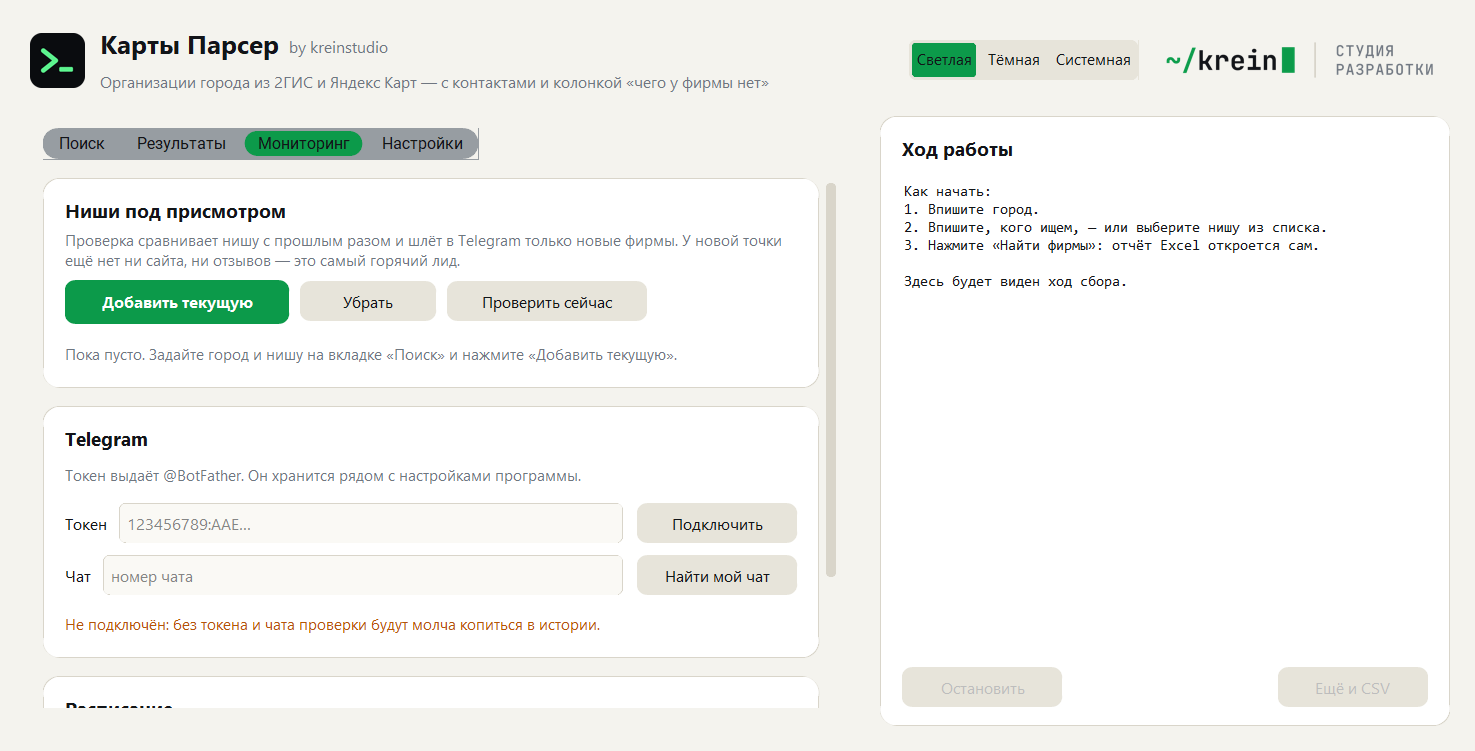
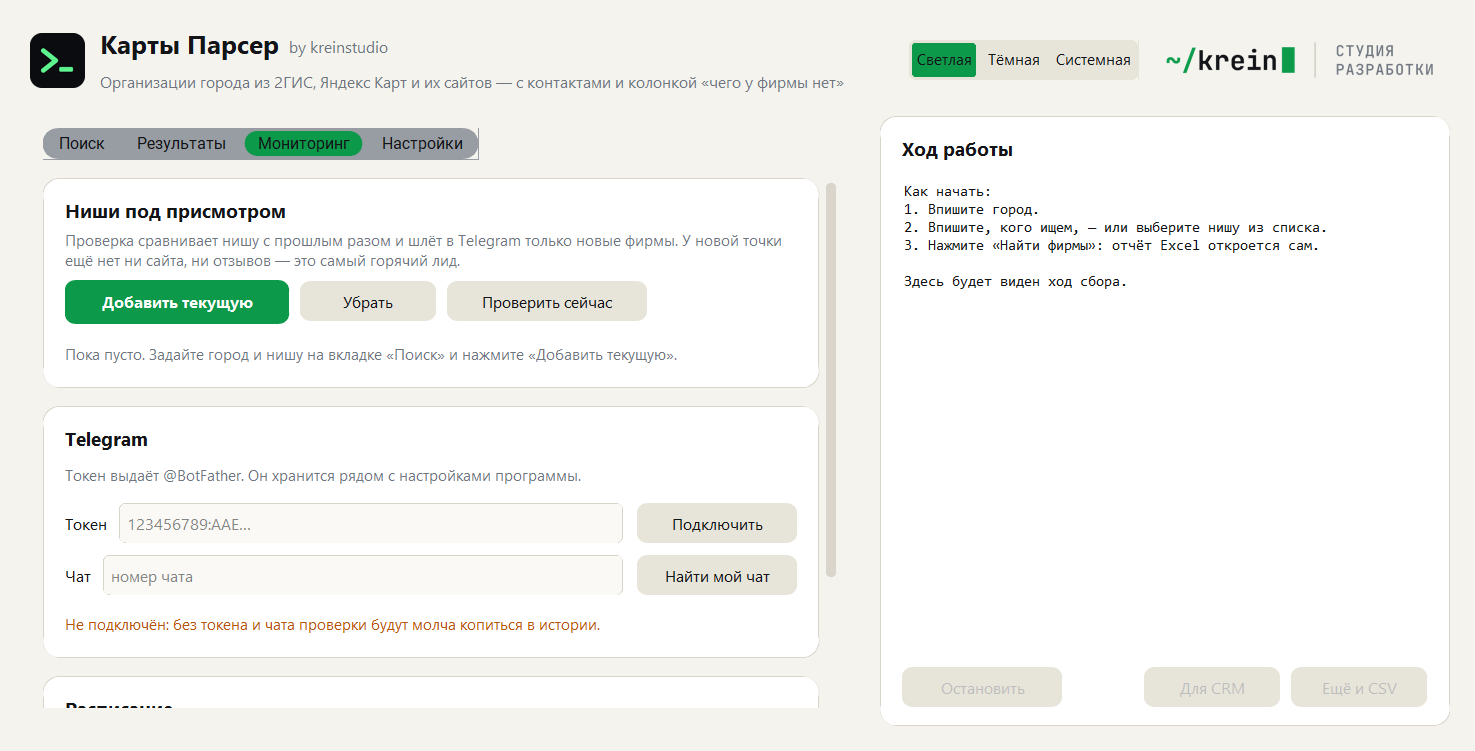
README и разведка под версию 0.2, снимки окна
В README — третий источник, ниши, история, мониторинг, новые колонки отчёта
и честный ответ, почему ИНН находится не у всех. В docs/recon.md дописано
то, что выяснилось уже в работе: плитки на большом сборе, правила разбора
сайтов, ловушки ЕГРЮЛ и городов-спутников.

Changed region(s): [[0.2183, 0.0919, 0.5614, 0.1225], [0.7485, 0.8881, 0.9356, 0.9494]]

diff --git a/mapsparser/gui/app.py b/mapsparser/gui/app.py
@@ -76,7 +76,7 @@ LOGO_SIZE = (233, 46)  # полный логотип 1651×326 с полем: р
 SEARCH_TAB, RESULTS_TAB, MONITOR_TAB, SETTINGS_TAB = "Поиск", "Результаты", "Мониторинг", "Настройки"
 NICHE_PROMPT = "Ниша…"
 MAX_CARDS = 80
-SUBTITLE = "Организации города из 2ГИС и Яндекс Карт — с контактами и колонкой «чего у фирмы нет»"
+SUBTITLE = "Организации города из 2ГИС, Яндекс Карт и их сайтов — с контактами и колонкой «чего у фирмы нет»"
 
 FIRST_STEPS = (
     "Как начать:\n"

diff --git a/mapsparser/__init__.py b/mapsparser/__init__.py
@@ -1,3 +1,3 @@
 """Карты Парсер (Maps Parser) by kreinstudio: организации города из 2ГИС и Яндекс Карт."""
 
-__version__ = "0.1.0"
+__version__ = "0.2.0"

diff --git a/README.md b/README.md
@@ -10,13 +10,15 @@
 [![Тесты](https://github.com/krein15/maps-parser/actions/workflows/tests.yml/badge.svg)](https://github.com/krein15/maps-parser/actions/workflows/tests.yml)
 
 Программа собирает организации города из [2ГИС](https://2gis.ru) и [Яндекс Карт](https://yandex.ru/maps),
-сводит одну и ту же фирму из двух карт в одну строку и складывает всё в Excel: название, адрес, телефон,
-**почта**, сайт, соцсети и мессенджеры, рейтинг, число отзывов, режим работы и ссылки на карточки.
+заходит на сайт каждой найденной фирмы, сводит одно и то же заведение из разных источников в одну строку и
+складывает всё в Excel: название, адрес, телефон (отдельно мобильный), **почта**, сайт, соцсети и мессенджеры,
+рейтинг, число отзывов, режим работы, сеть, ИНН и ссылки на карточки.
 
 И ещё одна колонка, которой нет ни у одного парсера карт, — **«чего у фирмы нет»**.
 
-> **Статус: версия 0.1.** Работают обе карты, сведение фирм, пробелы с оценкой, отчёт Excel и CSV, окно и
-> командная строка. Разведка источников с проверенными потолками — [docs/recon.md](docs/recon.md).
+> **Статус: версия 0.2.** Работают три источника, ниши из нескольких запросов, пробелы с оценкой, отчёт Excel,
+> CSV и файлы под импорт в CRM, история сборов, мониторинг новых фирм в Telegram, окно и командная строка.
+> Разведка источников с проверенными потолками — [docs/recon.md](docs/recon.md).
 
 [Скачать программу для Windows](https://github.com/krein15/maps-parser/releases/latest) — Python не нужен.
 [Пример отчёта](docs/example/example-report.xlsx).
@@ -30,74 +32,115 @@
 телефон, а то, что у двоих нет почты вообще, а у одного нет сайта — при тридцати девяти отзывах. Это и есть
 крючок: сразу видно, с чем к ним заходить.
 
-Программа считает по каждой фирме тринадцать видов пробелов:
+Программа считает по каждой фирме семнадцать видов пробелов:
 
 | Пробел | С чем заходить |
 |---|---|
 | нет сайта | сделать сайт или хотя бы страницу-визитку |
+| **сайт не открывается** | за домен платят, а сайта нет — поднять |
+| **сайт без https** | браузеры метят такой сайт небезопасным |
+| **сайт не для телефона** | с телефона заходит большинство |
+| **на сайте нет формы заявки** | заявку оставить негде |
 | нет почты | писать некуда — только звонок или мессенджер |
-| нет соцсетей | нет площадки, где показывают работы |
-| нет мессенджера | заявку некуда написать с телефона |
+| нет соцсетей, нет мессенджера | нет площадки, где показывают работы |
 | нет в Яндекс Картах / нет в 2ГИС | фирму не находят в одной из карт |
 | нет отзывов, мало отзывов | карточку никто не ведёт |
 | рейтинг ниже 4 | репутацию надо чинить |
 | карточка не подтверждена | владелец её не забрал |
-| нет фотографий | фирму не видно глазами |
-| не указан режим работы | клиент не знает, когда приходить |
+| нет фотографий, не указан режим работы | фирму не видно, время работы неизвестно |
 
 Каждому пробелу назначен вес, из них складывается **оценка от 0 до 100**: чем больше у фирмы дыр, тем выше
 она в списке обзвона. Если связаться не с кем вообще — ни телефона, ни почты, ни соцсетей — оценка нулевая,
 сколько бы пробелов ни нашлось: такая строка в списке бесполезна.
 
-Два правила, из-за которых пробелы считаются честно, а не «в лоб»:
+Три правила, из-за которых пробелы считаются честно, а не «в лоб»:
 
-- **«Нет почты» пишется, только если фирму видел 2ГИС.** Яндекс почту не публикует никогда, и по его данным
-  вывод был бы о пробеле источника, а не о фирме.
+- **«Нет почты» пишется, только если её искали там, где она бывает** — в карточке 2ГИС или на сайте фирмы.
+  Яндекс почту не публикует никогда, и по его данным вывод был бы о пробеле источника, а не о фирме.
 - **«Нет в 2ГИС» пишется, только если 2ГИС показал по запросу всё.** Если сбор упёрся в заданное число фирм,
   отсутствие ничего не доказывает.
+- **«Сайт не открывается» — это не то же самое, что «нет сайта».** Первое гораздо интереснее: фирма уже
+  платит за домен и хостинг, просто не знает, что посетители туда не попадают.
 
 ![Результаты](docs/screenshots/app-results.png)
 
-## Что внутри отчёта
+## Три источника, которые дополняют друг друга
 
-Лист **«Фирмы»** — строка на фирму: название, чего нет, оценка, что с этим делать, рубрика, адрес, телефоны,
-почты, сайты, соцсети и мессенджеры, рейтинг, число оценок, режим работы, какие карты её знают, ссылки на
-карточку в каждой карте и координаты. Фильтры и закрепление шапки уже включены, оценка подсвечена шкалой.
+| | 2ГИС | Яндекс Карты | Сайт фирмы |
+|---|---|---|---|
+| Организаций за один запрос | 12, максимум 5 страниц | 25, листается далеко | — |
+| Контакты | только в карточке фирмы | сразу в выдаче | в подвале и в «Контактах» |
+| Почта | **есть** | нет никогда | **есть чаще всего** |
+| Подтверждена ли карточка | не показывает | показывает | — |
+| Сколько фотографий | не показывает | показывает | — |
 
-Лист **«Сводка»** — разбор сбора: что искали, где, сколько фирм нашлось, сколько из них есть в обеих картах,
-сколько было запросов, сколько заняло времени, упёрся ли источник в свой потолок и каких пробелов сколько.
+Яндекс даёт объём дёшево, 2ГИС — почты и соцсети, но по запросу на фирму. Сайт добирает то, чего нет ни на
+одной карте: в пробном сборе по Тюмени сайт был у 31 фирмы из 44, а почта — только у 14; после захода на
+сайты почта нашлась у 22, то есть в полтора раза чаще. Заодно видно, что с самим сайтом.
 
-Рядом с Excel по желанию кладётся CSV с разделителем «точка с запятой» и BOM — он открывается двойным
-щелчком в русском Excel и заливается в CRM.
-
-## Откуда берутся данные
-
-Из открытых страниц обеих карт — тех самых, которые видит любой человек, открывший 2ГИС или Яндекс Карты в
-браузере. **Ни ключей API, ни регистрации, ни браузера внутри программы не нужно:** обе карты собирают
-страницы на сервере и отдают готовые данные обычному HTTP-запросу. Поэтому программа весит сорок мегабайт,
-а не триста, и работает заметно быстрее парсеров на Selenium.
-
-Карты дополняют друг друга, и это главное, что даёт сбор сразу из двух:
-
-| | 2ГИС | Яндекс Карты |
-|---|---|---|
-| Организаций за один запрос | 12, максимум 5 страниц | 25, листается далеко |
-| Контакты | только в карточке фирмы | сразу в выдаче |
-| Почта | **есть** | нет никогда |
-| Подтверждена ли карточка | не показывает | показывает |
-| Сколько фотографий | не показывает | показывает |
-
-Яндекс даёт объём дёшево, 2ГИС — почты и соцсети, но по запросу на фирму. Сведённые вместе, они дают строку
-полнее, чем любая из карт по отдельности.
+Ключей API, регистрации и браузера внутри программы не нужно: обе карты собирают страницы на сервере и
+отдают готовые данные обычным HTTP-запросом. Поэтому программа весит сорок мегабайт, а не триста, и
+работает заметно быстрее парсеров на Selenium.
 
 **Про потолки честно.** Выдача 2ГИС отдаёт не больше 60 организаций на запрос — поэтому при большом сборе
-программа режет город на участки по карте и обходит их по очереди. Выдача Яндекса листается, пока приходят
-новые фирмы. В сводке отчёта прямо написано, упёрся ли источник в свой потолок: «выгрузили всё» — обещание,
-которого карты не дают никому.
+программа режет город на участки по карте и обходит их по очереди. Проверено живьём: «магазин» по
+Екатеринбургу — 600 уникальных организаций за 59 запросов и полторы минуты, город резался на 24 участка.
+Выдача Яндекса листается, пока приходят новые фирмы. В сводке отчёта прямо написано, упёрся ли источник в
+свой потолок: «выгрузили всё» — обещание, которого карты не дают никому.
 
 Сбор идёт в один поток с паузой между запросами, как у обычного посетителя: разделы, закрытые в `robots.txt`,
 не трогаются, защита не обходится, капча не ломается. Собираются сведения об организациях, которые они сами
 опубликовали на карте, — не персональные данные частных лиц.
+
+## Ниша — это набор запросов, а не одно слово
+
+Фирма сама решает, как себя назвать: одна пишется «автосервисом», соседняя — «СТО», третья — «ремонтом
+автомобилей». По одному слову две трети ниши в выдачу не попадут.
+
+В программе 22 готовые ниши — автосервисы, кафе и кофейни, стоматологии, салоны красоты, строительство и
+ремонт, окна и потолки, мебель на заказ, грузоперевозки, клининг, юристы, бухгалтерия, типографии и реклама
+и другие. Выбрал нишу — программа обойдёт все её запросы и сложит найденное в один список без повторов.
+
+Ниши лежат в [mapsparser/templates](mapsparser/templates) обычными TOML-файлами и правятся текстовым
+редактором: это отправная точка, а не истина — под свой город и ассортимент словарь доводится.
+
+## Что внутри отчёта
+
+Лист **«Фирмы»** — строка на фирму: название, чего нет, оценка, что с этим делать, рубрика, адрес, телефоны,
+отдельно мобильные, почты, сайты, что с сайтом, соцсети и мессенджеры, рейтинг, число оценок, режим работы,
+сеть, ИНН и дата регистрации, какие источники её знают, ссылки на карточки и координаты. Фильтры и
+закрепление шапки включены, оценка подсвечена шкалой.
+
+Лист **«Сводка»** — честный разбор сбора: что искали, где, сколько фирм нашлось, сколько из них есть в обеих
+картах, сколько было запросов, сколько заняло времени, упёрся ли источник в свой потолок и каких пробелов
+сколько.
+
+Лист **«Изменения»** появляется со второго сбора по той же нише — о нём ниже.
+
+Рядом с Excel по желанию кладутся CSV (точка с запятой и BOM — открывается двойным щелчком в русском Excel)
+и файлы под импорт в **amoCRM** и **Битрикс24**: свои названия колонок, один телефон и одна почта в клетке,
+а пробелы, рейтинг, соцсети и ссылки на карточки — в примечании, чтобы менеджер видел, с чем заходить.
+
+## Что изменилось с прошлого раза
+
+Один сбор — это снимок ниши на сегодня. Ценность появляется на втором: видно, кто в нише появился, у кого
+наконец завёлся сайт, у кого он умер, где просел рейтинг, кто пропал из выдачи.
+
+Фирма опознаётся по названию и месту, а не по номеру карточки: карта может потерять карточку или отдать её
+под другим идентификатором, а фирма стоит на месте. Прерванный сбор в память не кладётся — в нём
+«пропавшие» это те, до кого не дошли руки.
+
+## Мониторинг: новые фирмы в Telegram
+
+**Новая фирма — самый горячий лид из возможных:** сайта у неё ещё нет, отзывов нет, карточка не подтверждена,
+и прямо сейчас кто-то решает, где это всё заказывать.
+
+Добавьте нишу под присмотр, подключите бота — и программа будет проверять её по расписанию и присылать
+**только новые** фирмы, а не весь список заново. Бот создаётся в [@BotFather](https://t.me/BotFather) за
+минуту, номер чата программа находит сама. Расписание — задание Планировщика Windows: пропущенную проверку
+(компьютер был выключен) оно догонит.
+
+![Мониторинг](docs/screenshots/app-monitoring.png)
 
 ## Окно
 
@@ -108,12 +151,12 @@ python app.py
 
 Первый экран — три шага: город, кого ищем, кнопка «Найти фирмы». Отчёт Excel открывается сам.
 
-- **Поиск** — город с подсказкой, ниша из готового списка (кофейня, автосервис, стоматология, салон красоты,
-  ремонт квартир, грузоперевозки и ещё два десятка) или своё слово, объём сбора, галочки карт и фильтр
-  «только те, у кого нет сайта».
+- **Поиск** — город с подсказкой, ниша из готового списка или своё слово, объём сбора, галочки карт и фильтры
+  «только те, у кого нет сайта» и «без сетевых точек».
 - **Результаты** — карточки фирм: оценка, чего не хватает, контакты, рейтинг, режим работы; по щелчку на
   название карты открывается карточка фирмы в 2ГИС или Яндексе.
-- **Настройки** — пауза между запросами, папка отчётов, открывать ли отчёт сразу, нужно ли открывать карточки
+- **Мониторинг** — ниши под присмотром, подключение бота, расписание проверок.
+- **Настройки** — пауза между запросами, папка отчётов, заходить ли на сайты фирм, открывать ли карточки
   2ГИС ради почты, кэш страниц.
 
 Справа — ход работы и кнопка «Остановить»: собранное к этому моменту сохраняется. Тёмная тема переключается
@@ -130,28 +173,40 @@ python -m mapsparser collect -q кофейня -c Тюмень
 ```
 
 ```bash
-python -m mapsparser collect -q автосервис -c Казань --gap website --limit 600 --csv
+python -m mapsparser collect --niche Автосервисы -c Казань --gap website --crm amo
 ```
 
 | Команда | Что делает |
 |---|---|
 | `collect` | собрать фирмы и сделать отчёт |
+| `niches` | готовые ниши и их запросы |
 | `cities` | города, которые программа знает |
 | `sources` | какие карты подключены и что каждая отдаёт |
 | `gaps` | какие пробелы умеет находить и сколько весит каждый |
+| `watch` | ниши под присмотром: добавить, убрать, показать |
+| `monitor` | проверить ниши и прислать новые фирмы в Telegram |
+| `schedule` | проверки по расписанию: включить, выключить, состояние |
+| `telegram` | бот и чат для уведомлений |
+| `history` | память о прошлых сборах |
 | `cache` | сохранённые страницы: размер, очистить |
 
-Полезные ключи `collect`: `--source 2gis` (только одна карта), `--limit` (сколько брать с каждой карты),
-`--gap website` (оставить только фирмы без сайта), `--min-score 40`, `--no-deep` (быстро, но без почт),
-`--delay` (пауза между запросами), `--csv`, `--out`, `--open`.
+Полезные ключи `collect`: `--niche` (ниша целиком), `--source 2gis` (только одна карта), `--limit`,
+`--gap website` (оставить только фирмы без сайта), `--min-score 40`, `--no-chains` (без сетевых точек),
+`--no-deep` (быстро, но без почт из 2ГИС), `--no-sites` (не заходить на сайты), `--inn` (искать ИНН в ЕГРЮЛ),
+`--delay`, `--csv`, `--crm all`, `--out`, `--open`.
 
 Собранный `MapsParser.exe` работает так же: без аргументов открывает окно, с аргументами — командная строка.
 
 ## Города
 
-В справочнике больше ста городов России — все миллионники и большинство крупных. Яндексу название города
-достаточно передать текстом, 2ГИС просит короткое имя в адресе (`2gis.ru/tyumen`), и эти имена проверены
-на сайте. Нужного города нет — добавьте его одной командой:
+В справочнике 171 город России — все миллионники и большинство крупных. Яндексу название города достаточно
+передать текстом, 2ГИС просит короткое имя в адресе (`2gis.ru/tyumen`), и эти имена проверены на сайте.
+
+Шестьдесят три города — спутники: Химки, Мытищи, Копейск, Пятигорск и другие живут внутри чужого проекта
+2ГИС («Москва», «Челябинск», «КавМинВоды»), но свой адрес у них есть, и поиск по нему сужается правильно.
+
+Города нет в справочнике — сбор всё равно пойдёт: Яндекс найдёт его по названию, 2ГИС пропустится с
+сообщением. А можно добавить город одной командой:
 
 ```bash
 python tools/update_cities.py Сургут
@@ -179,34 +234,47 @@ python -m venv .venv
 .venv\Scripts\python -m pytest -q
 ```
 
-Сто девятнадцать тестов, и ни один не ходит в сеть: они разбирают сохранённые страницы из `tests/fixtures`,
+Двести одиннадцать тестов, и ни один не ходит в сеть: они разбирают сохранённые страницы из `tests/fixtures`,
 нарочно набитые ловушками настоящих источников — телефон через знак U+2012, сайт за счётчиком переходов
 `link.2gis.ru`, ссылка на телеграм в поле «сайт», дом вместо организации в выдаче 2ГИС, рекламная подборка
-и фирма из соседнего города у Яндекса. Отдельно проверено, что филиалы сети не слипаются в одну строку:
-у сетевой кофейни на весь город один сайт и часто один телефон, и склеить их — значит соврать в отчёте.
+и фирма из соседнего города у Яндекса.
 
-Собранная программа проверена вживую: сбор по Тюмени дал 44 фирмы за 39 секунд, из них 14 с почтой.
+Отдельно закреплено то, на чём такие парсеры обычно врут: филиалы сети не слипаются в одну строку
+(у сетевой кофейни на весь город один сайт и часто один телефон), ИНН не приписывается однофамильцу из
+другого региона, «нет в 2ГИС» не пишется при неполном сборе.
+
+Есть и вторая проверка — **канарейка**: раз в неделю отдельное задание ходит в сеть и убеждается, что обе
+карты отдают данные в прежнем виде, включая сам потолок в пять страниц. Без неё смена формата у источника
+осталась бы зелёной в тестах и сломанной у пользователя.
+
+```bash
+.venv\Scripts\python -m pytest -m live -q
+```
 
 ## Добавить свою карту
 
-Источник описывается одним объектом — ключ, название, цвет, сборщик и перечень того, что карта в принципе
-умеет отдавать. Из этого описания собираются окно, флаги командной строки, колонки отчёта и логика пробелов;
-ядро не знает ни одного источника по имени. Новая карта подключается точкой входа `mapsparser.sources` —
-поставили пакет, и она появилась везде сама. Смотрите [mapsparser/sources/base.py](mapsparser/sources/base.py).
+Источник описывается одним объектом — ключ, название, цвет, сборщик, нужен ли ему свой адрес города и
+перечень того, что карта в принципе умеет отдавать. Из этого описания собираются окно, флаги командной
+строки, колонки отчёта и логика пробелов; ядро не знает ни одного источника по имени. Новая карта
+подключается точкой входа `mapsparser.sources`. Смотрите [mapsparser/sources/base.py](mapsparser/sources/base.py).
 
 ## Вопросы, которые задают первыми
 
-**Это законно?** Программа читает открытые страницы карт так же, как это делает посетитель: не обходит
-защиту, не ломает капчу, не лезет в разделы, закрытые в `robots.txt`, и собирает только те сведения об
-организациях, которые они сами опубликовали. Официальные API сюда не годятся по условиям самих площадок:
-Яндекс в API поиска по организациям прямо запрещает сохранять результаты, а у 2ГИС контакты в Places API —
-отдельное платное разрешение на ключ. Подробнее — в [разведке](docs/recon.md).
+**Это законно?** Программа читает открытые страницы так же, как это делает посетитель: не обходит защиту,
+не ломает капчу, не лезет в разделы, закрытые в `robots.txt`, и собирает только те сведения об организациях,
+которые они сами опубликовали. Официальные API сюда не годятся по условиям самих площадок: Яндекс в API
+поиска по организациям прямо запрещает сохранять результаты, а у 2ГИС контакты в Places API — отдельное
+платное разрешение на ключ. Подробнее — в [разведке](docs/recon.md).
 
-**Чем отличается от других парсеров карт?** Тремя вещами: две карты сводятся в одну строку, у фирм
-находятся почты (их отдаёт только 2ГИС), и есть колонка «чего у фирмы нет» с оценкой лида.
+**Чем отличается от других парсеров карт?** Тремя вещами: несколько источников сводятся в одну строку, у фирм
+находятся почты (их отдаёт 2ГИС и собственный сайт фирмы), и есть колонка «чего у фирмы нет» с оценкой лида.
 
-**Сколько занимает сбор?** Зависит от объёма. Две-три сотни фирм с открытием карточек 2ГИС — несколько минут.
-Пауза между запросами настраивается, но уменьшать её без нужды не стоит: карты этого не любят.
+**Почему ИНН находится не у всех?** На карте у фирмы вывеска, а в реестре — юридическое название: «Кофе Брют»
+против «ООО „Сёрф Кофе Тюмень“». Программа ставит ИНН только при строгом совпадении названия и региона, и
+если кандидат один. Приписать фирме чужой ИНН хуже, чем оставить клетку пустой.
+
+**Сколько занимает сбор?** Зависит от объёма. Две-три сотни фирм с карточками 2ГИС и заходом на сайты —
+несколько минут. Пауза между запросами настраивается, но уменьшать её без нужды не стоит.
 
 **Можно ли собрать всю Россию разом?** Нет, и никакой парсер карт этого честно не обещает: обе выдачи
 ограничены. Программа работает по городу и нише — так и задумано.

diff --git a/docs/recon.md b/docs/recon.md
@@ -157,3 +157,57 @@ https://yandex.ru/maps/org/<seoname>/<id>/
 
 Сохранённые ответы обоих источников лежат в `tests/fixtures` — тесты идут по ним и
 не ходят в сеть, так что поломку формата видно сразу по живому прогону, а не по тестам.
+
+## Что выяснилось потом, в работе
+
+Разведка выше закрыта 24 октября 2026 года. Ниже — то, что добавилось, когда программа
+пошла по живым данным.
+
+### Плитки работают в полную силу
+
+Обход потолка в 60 организаций на запрос проверен на большом сборе: «магазин» по
+Екатеринбургу дал **600 уникальных организаций за 59 запросов и полторы минуты**, город
+резался на 24 участка. Это около десяти организаций на запрос при потолке страницы в
+двенадцать — значит, участки почти не перекрываются и лишней работы нет.
+
+### Третий источник: сайт самой фирмы
+
+Карты отдают телефон почти всем, а почту — меньше чем трети. В пробном сборе по Тюмени
+сайт был у 31 фирмы из 44, а почта — только у 14: почта остальных лежала у них же на
+сайте. После захода на сайт почта нашлась у 22 фирм.
+
+Правила, выведенные из живых страниц:
+- хватает двух запросов на сайт — главная и, если почты там нет, страница контактов;
+- почту берём из ссылок `mailto:` и из текста, выкидывая разметку: в скриптах полно
+  адресов вида `logo@2x.png` и `errors@sentry.io`;
+- телефоны — только из ссылок `tel:`: в тексте слишком много чисел, похожих на номер;
+- «сайт не работает» бывает трёх видов — не отвечает, отдаёт ошибку, показывает заглушку
+  хостера. Заглушка опознаётся по словам вроде «домен припаркован» и по пустой странице,
+  но пустая страница считается заглушкой только если на ней нет ни формы, ни контактов:
+  у одностраничника на картинках вполне может не быть текста.
+
+### ИНН из ЕГРЮЛ: ищется, но совпадает редко
+
+Открытый поиск `egrul.nalog.ru` работает без ключа и капчи: `POST /` отдаёт талон,
+`GET /search-result/<талон>` — строки с ИНН, ОГРН, КПП, названием, руководителем, регионом
+и датой регистрации.
+
+Беда в другом: на карте у фирмы вывеска, а в реестре — юридическое название. «Кофе Брют»
+не находится, «Сёрф Кофе Тюмень» находится. Хуже того, поиск отдаёт однофамильцев из других
+регионов — по запросу «Кофе Брют Тюмень» первой пришла фирма из Курганской области.
+Поэтому совпадение принимается только строгое: название после снятия формы собственности
+совпало целиком, регион регистрации сошёлся с регионом города и такой кандидат один.
+Пустая клетка лучше чужого ИНН.
+
+### Города: спутники и неоднозначные названия
+
+Проверка короткого имени города по названию проекта 2ГИС отсекала полсотни городов зря:
+Химки, Копейск, Пятигорск и другие живут внутри проектов «Москва», «Челябинск»,
+«КавМинВоды», но свой адрес у них есть, и поиск по нему сужается правильно (проверено:
+`2gis.ru/khimki/search/кофейня` отдаёт только химкинские заведения). Правильная проверка —
+по адресам найденных организаций, а не по названию проекта.
+
+Обратная ловушка: по короткому имени можно попасть в другой город с похожим названием.
+«Октябрьский» в Башкортостане и «Октябрьск» в Самарской области; Благовещенск бывает
+амурский и башкирский, а 2ГИС по короткому имени отдаёт башкирский. Поэтому сравнение
+названий — точное, а неоднозначные города в справочник не кладутся вовсе.
